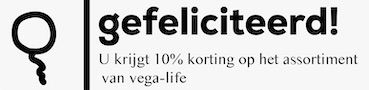
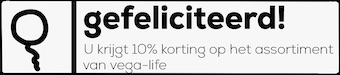
bijgewerkt

diff --git a/style.css/style.css b/style.css/style.css
@@ -2,18 +2,18 @@
     margin: 0;
     padding: 0;
     list-style-type: none;
-    font-family: 'Nexa-ExtraLight';} 
+    font-family:'Nexa-ExtraLight';} 
 
 @font-face{
-    font-family:'Nexa-Heavy.eot';
-    src: url('style.css/fonts/Nexa-Heavy');}
+    font-family:'Nexa-Heavy';
+    src: url('/fonts/Nexa-Heavy.ttf');}
 
 @font-face{
-    font-family:'Nexa-ExtraLight.eot';
-    src: url('style.css/fonts/Nexa-ExtraLight');}
+    font-family:'Nexa-ExtraLight';
+    src: url('/fonts/Nexa-ExtraLight.ttf');}
 
 h1,h2,h3,h4{
-    font-family:'Nexa-Heavy.';}
+    font-family:'Nexa-Heavy';}
 
 body{
     background-color: #e2e8e2;
@@ -31,13 +31,13 @@ nav{
     background-color: rgb(32, 31, 31);
     }
     
-    nav ul{
+nav ul{
     display: flex;
     margin-top: 1em;
     flex-wrap: wrap;
     }
     
-    nav a{
+nav a{
     text-decoration: none;
     overflow: hidden;
     white-space: nowrap;
@@ -83,14 +83,11 @@ body section{
     margin-left: 0;}
 
 .gerechten ul:first-of-type{
-    margin-top: 1em;
     display: flex;}
 
-.gerechten section:first-of-type ul li{
-    margin: 5mm;
-    }
-
-
+.fotosgerechten li{
+    padding-left: 5%;}
+w
 .fotosgerechten{
     margin-bottom:2em;
     background-color: #cbd1cb;}
@@ -147,19 +144,20 @@ footer{
     background-color: #ccd1cb;
     padding-bottom: 3em;
     padding-left: 1mm;
-    color: #171717;
-}
+    color: #171717;}
 
 .resultaat{
-    background-color: #073526;}
+    background-color:#e2e8e2;
+    margin-left: 1%;}
 
-.resultaat section:last-of-type{
-    background-color: #03835c;
-    padding: 15mm;
-    border-top-left-radius: 60%;
-    border-top-right-radius: 60%;
-    text-align: center;}
+.resultaat p{
+margin: 7%;
+}
 
+.resultaat img{
+    background-color: #171717;
+    padding: 3%;}
+    
 .pompoensoep h3{
     background-color:whitesmoke;
     padding-bottom: 10em;
@@ -186,9 +184,9 @@ footer{
     display: flex;}
 
 .homepompoen ul:first-of-type li{
-    margin: 4mm;
+    margin: 3%;
     background-color: #e2e8e2;
-    padding: 2mm;
+    padding: 1%;
     border-color: #171717;
     border-style:solid;
     border-radius: 10%;}

diff --git a/resultaat.html b/resultaat.html
@@ -6,7 +6,7 @@
     <link rel="stylesheet" href="./style.css/style.css">
     <title>Document</title>
 </head>
-<body class="resultaat">
+<body>
     <header> 
         <nav>
             <ul>
@@ -18,14 +18,11 @@
         </nav>
         <h1>resultaat</h1>
     </header>  
-<main>
+<main class="resultaat">
         <section>
            <h3>resultaten</h3>
                 <img src="style.css/images/opmaak/procentbalk.jpg" alt="procentbalk">
-                     <ul>
-                         <li>co2 uitstoot totaal</li>
-                         <li>aantal gedeeld</li>
-                     </ul>
+                <p>Met deze keuze bespaart heeft u 50% minder uitstoot bespaart.</p>
          </section>
     
         <section>
@@ -46,14 +43,14 @@
 
 <footer>
     <img src="style.css/images/opmaak/logo1.jpg" alt="logo">
-    <ul>
-       <li>instagram</li>
-       <li>facebook</li>
-       <li>e-mail</li>
-       <li>telefoonummer</li>
-    </ul>
-    <p>Bronnen voor gekozen recepten en enkele afbeeldingen met dank aan: https://www.ah.nl/ en https://www.keukenliefde.nl/</p>
-<p> @copyright 2023 Vormgeving website Pien van Kalkeren </p> 
+        <ul>
+            <li>instagram</li>
+            <li>facebook</li>
+            <li>e-mail</li>
+            <li>telefoonummer</li>
+         </ul>
+         <p>Bronnen voor gekozen recepten met dank aan: https://www.ah.nl/ en https://www.keukenliefde.nl/</p>
+         <p> @copyright 2023 Vormgeving website Pien van Kalkeren </p> 
 </footer>
 </body>
 </html>

diff --git a/index.html b/index.html
@@ -48,7 +48,7 @@
                     <li>e-mail</li>
                     <li>telefoonummer</li>
                 </ul>
-            <p>Bronnen voor gekozen recepten en enkele afbeeldingen met dank aan: https://www.ah.nl/ en https://www.keukenliefde.nl/</p>
+            <p>Recepten met dank aan: https://www.ah.nl/ en https://www.keukenliefde.nl/</p>
             <p> @copyright 2023 Vormgeving website Pien van Kalkeren </p> 
         </footer>
      </body>

diff --git a/overons.html b/overons.html
@@ -57,7 +57,7 @@
                 <li>e-mail</li>
                 <li>telefoonummer</li>
              </ul>
-         <p>Bronnen voor gekozen recepten en enkele afbeeldingen met dank aan: https://www.ah.nl/ en https://www.keukenliefde.nl/</p>
+         <p>Bronnen voor gekozen recepten met dank aan: https://www.ah.nl/ en https://www.keukenliefde.nl/</p>
          <p> @copyright 2023 Vormgeving website Pien van Kalkeren </p> 
 </footer>
 </body>

diff --git a/pompoensoep.html b/pompoensoep.html
@@ -61,7 +61,7 @@
                 <li>e-mail</li>
                 <li>telefoonummer</li>
              </ul>
-         <p>Bronnen voor gekozen recepten en enkele afbeeldingen met dank aan: https://www.ah.nl/ en https://www.keukenliefde.nl/</p>
+         <p>Bronnen voor gekozen recepten met dank aan: https://www.ah.nl/ en https://www.keukenliefde.nl/</p>
          <p> @copyright 2023 Vormgeving website Pien van Kalkeren </p> 
 </footer>
 </body>
